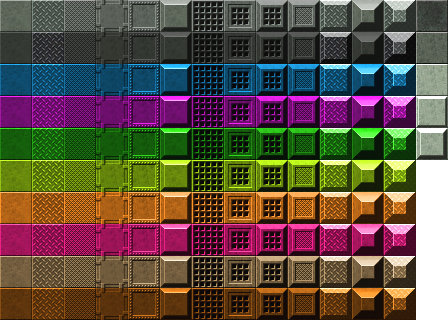
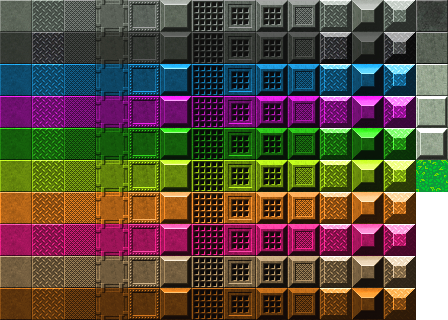
Remove customer sprite when they go home.

Changed region(s): [[0.9062, 0.5, 1.0, 0.625]]

diff --git a/mvp-fun-game-loop/scripts/game.js b/mvp-fun-game-loop/scripts/game.js
@@ -9,10 +9,7 @@ var game = new Phaser.Game(1024, 768, Phaser.AUTO, '', { preload: preload, creat
 // Show debug information in the game itself:
 var debug = true;
 
-// Current todo:
-// * 
-
-
+// * Implement collision / pathing for customers.
 
 //Latest todo:
 // * pathing + collision
@@ -43,7 +40,6 @@ var debug = true;
 // * * * *
 // * Ideas:
 // * * Different tiers of the same equipment: Ex a faster treadmill that lets people work out faster but it costs more.
-
 
 var gym;
 
@@ -84,6 +80,7 @@ function preload() {
     //game.load.image('wall-tile', 'assets/map/wall.png');
     game.load.spritesheet('gym-tiles-spritesheet', 'assets/map/gridtiles.png', 32, 32);
     game.load.image('gym-tiles', 'assets/map/gridtiles.png');
+    game.load.image('grass-tile', 'assets/map/grasstile.png');
 
     // preload machines sprites:
     game.load.image('treadmill', 'assets/machines/treadmill.png');
@@ -118,6 +115,9 @@ function create() {
     ui.gymLayer.scrollFactorX = 0.5;
     ui.gymLayer.scrollFactorY = 0.5;
 
+    // Pre-populate the map with floor tiles:
+    ui.map.fill(ui.tilesetMap.floor, 0, 0, game.width, game.height, 'level1');
+
     // Enable collision only for the wall tiles: (TODO: Not working right now.)
     ui.map.setCollision(ui.tilesetMap.wall);
 
@@ -131,7 +131,7 @@ function create() {
 
     // TODO: Make a function to do each of these steps:
     // Init gym:
-    gym = new Gym(15000);
+    gym = new Gym(20000);
 
     // Every 1/10 seconds is 1 in-game minute:
     game.time.events.loop(Phaser.Timer.SECOND / 100, gym.tickClock, gym);
@@ -210,8 +210,8 @@ function render() {
 
     for (var i = 0; i < gym.customers.length; i++) {
         var c = gym.customers[i];
-        if (debug) {
-            var style = { font: "10px Arial", fill: "#f922d9", wordWrap: true, wordWrapWidth: c.sprite.width, align: "center", backgroundColor: "#fffff" };
+        if (debug && c.sprite) {
+            var style = { font: "10px Arial", fill: "#f9542f4", wordWrap: true, wordWrapWidth: c.sprite.width, align: "center" };
             if (c.debugText) {
                 c.debugText.destroy();
             }
@@ -233,8 +233,7 @@ function render() {
     }
 }
 
-// TODO: Put the throw away ui code in some other file:
-// NOTE: This is uber hax just to allow me to test the game loop.
+// TODO: Actually implement pause/resume/etc.
 function pauseTime() {
     // remove game clock:
     game.time.events.removeAll();
@@ -249,10 +248,11 @@ function resumeTime() {
     ui.pauseTimeBtn = game.add.button(game.world.width - 550, 5, 'pause-time-btn', pauseTime, this);
 }
 
-
+// TODO: Put the throw away ui code in some other file:
+// NOTE: This is uber hax just to allow me to test the game loop.
 function renderUI() {
     // Render Gym clock:
-    var style = { font: "20px Arial", fill: "#f922d9", wordWrap: false, align: "center", backgroundColor: "#fffff" };
+    var style = { font: "20px Arial", fill: "#98f700", wordWrap: false, align: "center"};
 
     // TODO: just change the text instead of destroying these each time lol.
     if (ui.gymClock) {
@@ -269,8 +269,8 @@ function renderUI() {
 
     if (gym.dailyBalanceQueue.length > 0) {
         var balance = gym.dailyBalanceQueue.pop();
-        var posStyle = { font: "20px Arial", fill: "#44e20b", wordWrap: false, align: "center", backgroundColor: "#fffff" };
-        var negStyle = { font: "20px Arial", fill: "#f70254", wordWrap: false, align: "center", backgroundColor: "#fffff" };
+        var posStyle = { font: "20px Arial", fill: "#44e20b", wordWrap: false, align: "center" };
+        var negStyle = { font: "20px Arial", fill: "#f70254", wordWrap: false, align: "center" };
 
         if (balance > 0) {
             ui.dailyBalanceTicker = game.add.text(game.world.width - 100, 20, "+ $ " + balance + ".00", posStyle);
@@ -321,7 +321,7 @@ function openBuildStore() {
     // For now I am going to just use a debug rectangle, lol. Keep it programmer art for now!
     var background = game.add.sprite(100, 100, 'store-background');
 
-    var style = { font: "20px Arial", fill: "#f922d9", wordWrap: false, align: "center", backgroundColor: "#fffff" };
+    var style = { font: "20px Arial", fill: "#0a0a0a", wordWrap: false, align: "center" };
     var title = game.add.text(0, 0, 'Build Store', style);
     title.alignTo(background, Phaser.TOP_CENTER, 1);
 
@@ -366,7 +366,7 @@ function openMachineStore() {
     // For now I am going to just use a debug rectangle, lol. Keep it programmer art for now!
     var background = game.add.sprite(100, 100, 'store-background');
 
-    var style = { font: "20px Arial", fill: "#f922d9", wordWrap: false, align: "center", backgroundColor: "#fffff" };
+    var style = { font: "20px Arial", fill: "#f922d9", wordWrap: false, align: "center"};
     var title = game.add.text(0, 0, 'Machine Store', style);
     title.alignTo(background, Phaser.TOP_CENTER, 1);
 

diff --git a/mvp-fun-game-loop/scripts/classes/gym.js b/mvp-fun-game-loop/scripts/classes/gym.js
@@ -23,7 +23,7 @@ class Gym {
         this.fame = 1;
 
         // how many dollars per day it costs to use the gym.
-        this.membershipCost = 3;
+        this.membershipCost = 5;
 
     }
 
@@ -62,17 +62,12 @@ class Gym {
     // TODO: Implement purchasing different types of advertisements (like in gamedevtycoon)
     //       which will increase the Fame variable for a short period of time.
     acquireNewCustomers() {
-
-        // TODO: Improve this formula:
-        // * A problem:
-        // * * If I use average happiness some people in a large gym can be really unhappy but never leave.
-
-        // TODO: Major? problem:
+        // TODO: Potential problem:
         // * How do I address stagnation?
         // * * You can just stop building machines and eventually the customers will stagnate.
         //     Is that ok?
         // * I think introducing employees will make this more pressing to get more customers.
-        var numNewCustomers = Math.round(this.fame * (this.getAvgCustomerHappiness() + 1) - this.membershipCost/2);
+        var numNewCustomers = Math.round(this.fame * (this.getAvgCustomerHappiness() + 1) - this.membershipCost/10);
 
         console.log('[DEBUG] newCustomers today: ' + numNewCustomers);
         // if numNewCustomers is negative then remove that many customers (most unhappy first) instead of adding new customers.
@@ -96,13 +91,13 @@ class Gym {
                 console.log(customerType);
 
                 // TODO: dont make the sprite until they are going to the gym (This is just for debugging)
-                var sprite = customerGroup.create(32 + i * 80, game.world.height - 150, 'customer-1');
+                //var sprite = customerGroup.create(32 + i * 80, game.world.height - 150, 'customer-1');
 
                 this.customers.push(new Customer(
                     'customer-'+this.customers.length,
                     customerType,
                     Math.floor(Math.random() * (this.closingTime - 3 - this.openingTime + 1)) + this.openingTime,
-                    sprite
+                    null
                 ));
                 this.fame+=0.1;
                 // TODO: There should be a tikcer message saying that people joined the gym.

diff --git a/mvp-fun-game-loop/scripts/classes/customer.js b/mvp-fun-game-loop/scripts/classes/customer.js
@@ -25,7 +25,7 @@ class Customer {
                     'treadmill',
                     'benchpress'
                 ],
-                days_of_week: [1, 2, 3, 4, 5]
+                days_of_week: [1, 3, 5]
             },
             how_much_can_you_bench_bro: {
                 routine: [
@@ -68,8 +68,6 @@ class Customer {
         this.isThinking = false;
         this.currentThought;
         this.currentThoughtSprite;
-
-
 
         // The customer state machine: (TODO: Make a diagram here)
         this.state = StateMachine.create({
@@ -173,6 +171,11 @@ class Customer {
 
     // process*State() functions:
     processHomeState(gym) {
+        if (this.sprite) {
+            this.sprite.destroy();
+            this.sprite = null;
+        }
+
         if (this.removeFromGym) {
             console.log("[DEBUG] " + this.name + ' is cancelling their subscription');
             this.sprite.destroy();
@@ -184,6 +187,8 @@ class Customer {
         if (this.isTimeForWorkout(gym)) {
             console.log("[DEBUG] " + this.name + " is going to gym");
             this.resetCustomerSession();
+            // Create sprite:
+            this.sprite = customerGroup.create(game.world.width / 2, game.world.height, 'customer-1');
             // Move the sprite to the center of the gym.
             //this.moveToXY(400,400);
             this.state.goToGym();
@@ -306,6 +311,11 @@ class Customer {
         }
     }
 
+
+    // TODO: Should shower just be another machine?
+    // * If there is a maximum amount of people in the shower then they have to wait in line for the shower as well.
+    //   That means that we need to go through the same states as with the machines. That could work fine. Or we could just say
+    //   that the shower fits infinite people, which is dumb. let;s just git rid of showers.
     processShoweringState() {
         // TODO: Move them to the shower 'machine' once it is made.
         // See below notes.
